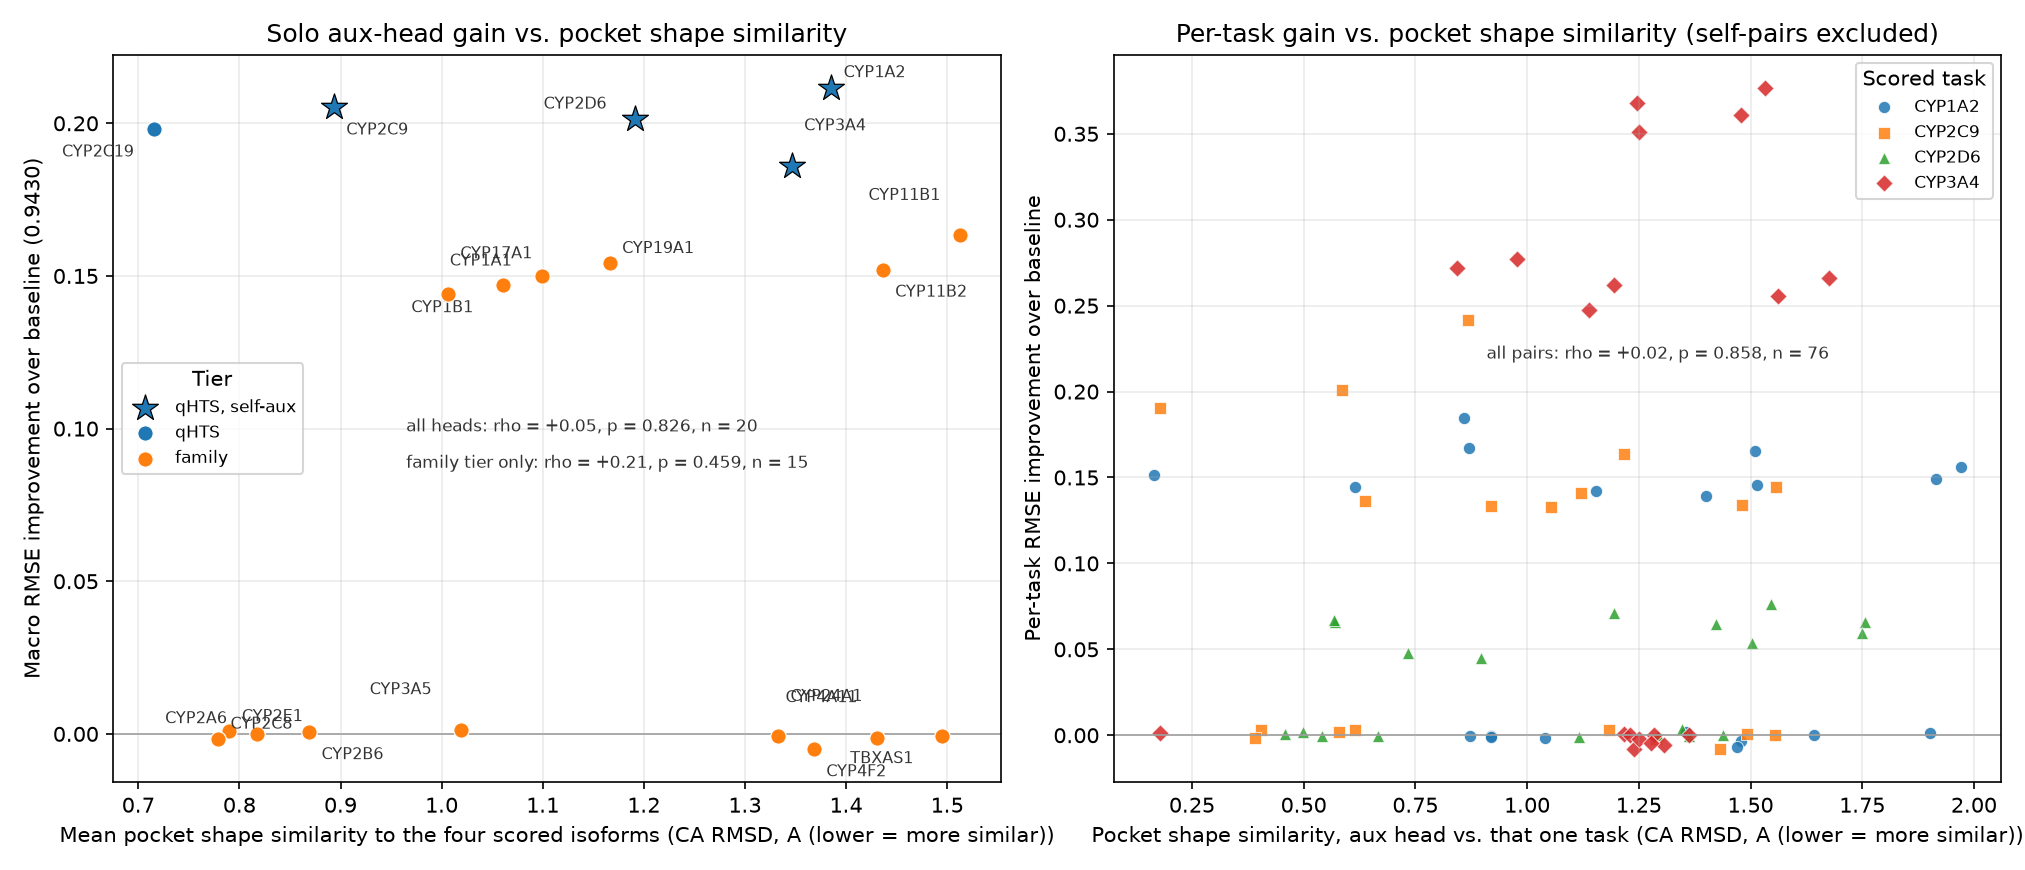
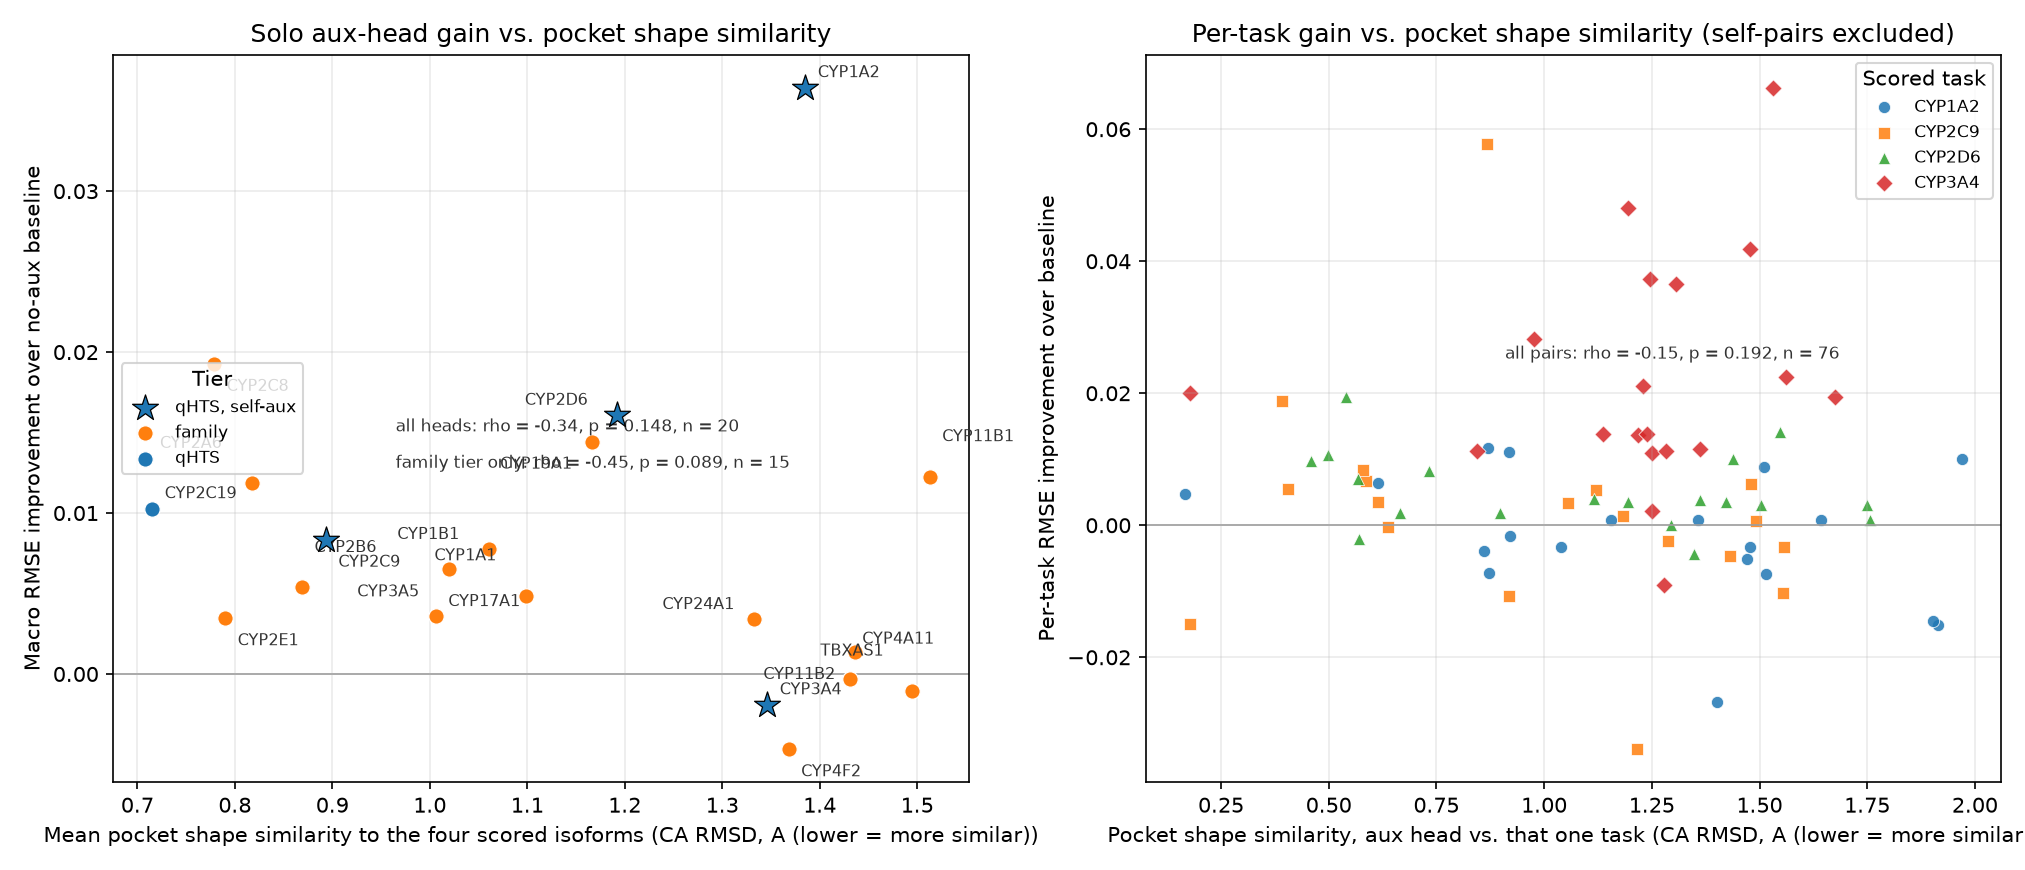
Move protein_similarity onto the head-search JSON and rerun against the fixed baseline
results/head_search_results.csv is gone; read solo-head gains from
results/head_search.json instead, with the baseline identified by an
empty 'candidates' list. Re-run the analysis against the fixed
2026-09-22 gains: all four similarity axes now lean weakly positive
(|rho| ~0.3, p 0.14-0.20) instead of flat or inverted, but none reaches
significance, so the answer is unchanged.

diff --git a/scripts/protein_similarity.py b/scripts/protein_similarity.py
@@ -1,7 +1,8 @@
 """Test whether protein similarity between isoforms explains auxiliary-head gain.
 
-`reports/head_search_analysis.md` left the split unexplained: some aux heads buy
-~0.2 macro RMSE and others buy nothing, and row count does not predict which.
+`reports/head_search_analysis.md` leaves the ranking unexplained: some aux heads
+buy a measurable macro RMSE gain and others buy nothing, and row count does not
+predict which.
 `chemspace.py` attacks the ligand side of that question. This one attacks the
 protein side: if an aux head helps because its enzyme is *like* the scored
 enzymes -- same fold, same substrate-binding residues, therefore transferable
@@ -49,13 +50,14 @@ experiment design, not about transfer. Those four heads are drawn as stars, as
 in `plot_volume_vs_gain.py`, and are confounded anyway -- they carry a
 supervision channel no external head has.
 
-Gains are read from `results/head_search_results.csv`: solo-head configs only
-(a multi-head config measures a set, not a head), `baseline - config`, so
-positive means the head helped. Per-task gains come from the same rows.
+Gains are read from the head-search JSON (`results/head_search.json`): solo-head
+configs only (a multi-head config measures a set, not a head),
+`baseline - config`, so positive means the head helped. Per-task gains come
+from the same entries.
 
 Usage:
     python scripts/protein_similarity.py
-    python scripts/protein_similarity.py --results-path results/head_search_results.csv
+    python scripts/protein_similarity.py --results-path results/head_search.json
 
 Network: UniProt REST (sequences), AlphaFold DB (models) and RCSB (the four
 holo structures), all cached under --cache-dir, so a second run is offline.
@@ -379,30 +381,29 @@ def load_gains(results_path: Path) -> tuple[dict[str, float], dict[str, dict[str
     Solo configs only. Gain is `baseline - config`, so positive means the head
     helped.
     """
-    rows = [line.split(",") for line in results_path.read_text().strip().splitlines()]
-    header, body = rows[0], rows[1:]
-    index = {name: i for i, name in enumerate(header)}
+    entries = json.loads(results_path.read_text())
 
-    baseline = next((r for r in body if r[0] == "baseline"), None)
+    baseline = next((e for e in entries if not e["candidates"]), None)
     if baseline is None:
-        raise SystemExit(f"{results_path} has no 'baseline' config row")
+        raise SystemExit(f"{results_path} has no baseline entry (one with an empty 'candidates')")
 
+    base_heads = baseline.get("per_head_rmse_mean", {})
     macro: dict[str, float] = {}
     per_task: dict[str, dict[str, float]] = {}
-    for row in body:
-        config = row[0]
-        if config == "baseline" or "+" in config:
+    for entry in entries:
+        if len(entry["candidates"]) != 1:
             continue
-        macro[config] = float(baseline[index["macroRMSE"]]) - float(row[index["macroRMSE"]])
-        per_task[config] = {
-            task: float(baseline[index[task]]) - float(row[index[task]])
+        gene = entry["candidates"][0]
+        solo_heads = entry.get("per_head_rmse_mean", {})
+        macro[gene] = baseline["macro_rmse_mean"] - entry["macro_rmse_mean"]
+        per_task[gene] = {
+            task: base_heads[f"{task}_pIC50_direct_inhibition"] - solo_heads[f"{task}_pIC50_direct_inhibition"]
             for task in _SCORED
-            if task in index
+            if f"{task}_pIC50_direct_inhibition" in base_heads and f"{task}_pIC50_direct_inhibition" in solo_heads
         }
 
     print(
-        f"{results_path}: baseline macro RMSE {float(baseline[index['macroRMSE']]):.4f}, "
-        f"{len(macro)} solo heads",
+        f"{results_path}: baseline macro RMSE {baseline['macro_rmse_mean']:.4f}, {len(macro)} solo heads",
         file=sys.stderr,
     )
     return macro, per_task
@@ -476,7 +477,7 @@ def plot_axis(
 
     ax_macro.axhline(0, color="#999999", linewidth=0.8, zorder=1)
     ax_macro.set_xlabel(f"Mean {axis_name} similarity to the four scored isoforms ({unit})")
-    ax_macro.set_ylabel("Macro RMSE improvement over baseline (0.9430)")
+    ax_macro.set_ylabel("Macro RMSE improvement over no-aux baseline")
     ax_macro.set_title(f"Solo aux-head gain vs. {axis_name} similarity")
     handles, labels = ax_macro.get_legend_handles_labels()
     unique = dict(zip(labels, handles))
@@ -543,7 +544,7 @@ def write_table(
 def main() -> None:
     """Entry point: fetch proteins, measure all four similarities, plot against gain."""
     parser = argparse.ArgumentParser(description=__doc__)
-    parser.add_argument("--results-path", type=Path, default=Path("results/head_search_results.csv"))
+    parser.add_argument("--results-path", type=Path, default=Path("results/head_search.json"))
     parser.add_argument("--cache-dir", type=Path, default=Path("data/proteins"))
     parser.add_argument("--out-dir", type=Path, default=Path("reports"))
     parser.add_argument("--table-path", type=Path, default=Path("results/protein_similarity.csv"))

diff --git a/reports/protein_similarity_analysis.md b/reports/protein_similarity_analysis.md
@@ -1,43 +1,51 @@
 # Does Enzyme Similarity Explain Auxiliary-Head Gain?
 
-`reports/head_search_analysis.md` Section 4 left the bimodal split unexplained:
-a solo aux head either buys ~0.15-0.21 macro RMSE or buys nothing, and row
-count does not predict which. One candidate explanation is protein
-relatedness — an aux isoform that is *like* the scored enzymes should transfer,
+Some solo aux heads measurably improve macro RMSE and others do nothing, and
+row count does not predict which (`reports/head_search_analysis.md`). One
+candidate explanation is protein relatedness — an aux isoform that is *like* the scored enzymes should transfer,
 one that is not should not. This report tests that directly.
 
-Source: `scripts/protein_similarity.py` (run 2026-09-21, local: ~50 s with the
-UniProt/AlphaFold/RCSB cache warm, ~2 min cold). Sequences from UniProt
-(reviewed human entries), models from AlphaFold DB v6, heme donors from RCSB.
-Gains are the solo-head rows of `results/head_search_results.csv` (baseline
-0.9430 ± 0.0018). Per-gene table: `results/protein_similarity.csv`.
+Source: `scripts/protein_similarity.py` (first run 2026-09-21, re-run
+2026-09-22; local, ~50 s with the UniProt/AlphaFold/RCSB cache warm, ~2 min
+cold). Sequences from UniProt (reviewed human entries), models from AlphaFold
+DB v6, heme donors from RCSB. Gains are the solo-head entries of
+`results/head_search.json` from the fixed head-search run (baseline
+0.7557 ± 0.0036). Per-gene table: `results/protein_similarity.csv`.
 
-> **Caveat added 2026-09-21.** The gains this report regresses against are
-> invalid — see `reports/head_search_baseline_bug.md`. The conclusion (protein
-> similarity does not explain the gains) is unchanged in direction, since the
-> gains turn out to encode training survival rather than transfer, but the
-> analysis should be re-run once real gains exist.
+> **Re-run 2026-09-22 against the fixed head-search.** The first version of
+> this report regressed against gains from the run whose baseline died at
+> epoch 1 (`reports/head_search_baseline_bug.md`). The similarity measurements
+> are unchanged; every gain and every correlation below is new. The answer is
+> still no, but the trends are no longer flat or inverted: all four axes now
+> lean weakly positive, and none reaches significance.
 
 ## TL;DR
 
-**No.** Nothing about the enzyme predicts gain — not whole-protein sequence
-identity, not fold similarity, and not the active site, which is the version of
-the question that actually had a mechanism behind it.
+**No, not detectably.** No similarity axis predicts gain at this sample
+size: not whole-protein sequence identity, not fold similarity, and not the
+active site, which is the version of the question that actually had a
+mechanism behind it. Every axis leans the expected way (more similar, slightly
+more gain), with |ρ| around 0.3 and p = 0.14-0.20.
 
 Spearman rho of solo-head macro gain against each similarity axis
 (mean over the four scored isoforms, self-pairs excluded):
 
 | Slice | Sequence identity | TM-score | **Pocket identity** | **Pocket CA RMSD** |
 |---|---|---|---|---|
-| All 20 aux heads | -0.00 (p = 0.995) | +0.03 (p = 0.885) | **+0.13 (p = 0.595)** | **+0.05 (p = 0.826)** |
-| Family tier only (n = 15) | -0.27 (p = 0.321) | -0.24 (p = 0.383) | **-0.07 (p = 0.809)** | **+0.21 (p = 0.459)** |
-| Every (aux head, scored task) pair (n = 76) | -0.09 (p = 0.423) | +0.01 (p = 0.941) | **+0.07 (p = 0.558)** | **+0.02 (p = 0.858)** |
+| All 20 aux heads | +0.30 (p = 0.195) | +0.34 (p = 0.139) | **+0.32 (p = 0.164)** | **-0.34 (p = 0.148)** |
+| Family tier only (n = 15) | +0.24 (p = 0.383) | +0.37 (p = 0.173) | **+0.29 (p = 0.294)** | **-0.45 (p = 0.089)** |
+| Every (aux head, scored task) pair (n = 76) | +0.05 (p = 0.668) | +0.16 (p = 0.160) | **+0.18 (p = 0.116)** | **-0.15 (p = 0.196)** |
 
-Flat on all four axes, at every slice. Where a trend shows at all it points the
-**wrong way**: inside the family tier the inert heads are the *more* similar
-ones on whole-protein identity (median max 48.6% vs. 30.4% for the gainers,
-Mann-Whitney p = 0.15) and on pocket identity (median max 63.2% vs. 48.5%,
-p = 0.37).
+Pocket RMSD is lower-is-more-similar, so its negative ρ points the same way as
+the others. Pair-level values are computed from the rounded
+`results/protein_similarity.csv` and can differ from the figure annotations in
+the second decimal.
+
+The per-head trend is consistent in sign across all four axes but weak, and it
+mostly disappears at the pair level (ρ ≤ 0.18). A head does not
+preferentially help the scored isoform it resembles most. The strongest single
+number, family-only pocket shape (ρ = -0.45, p = 0.089), is one of twelve tests
+in the table and does not survive any multiple-comparison correction.
 
 ![Pocket sequence](similarity_vs_gain_pocket_sequence.png)
 ![Pocket shape](similarity_vs_gain_pocket_shape.png)
@@ -75,9 +83,11 @@ T301/T302, L362, S365, L366. Pocket sizes are 19-24 residues.
 
 This axis has the dynamic range the global ones lack — pocket identity spans
 16-89% across non-self pairs, versus 19.5-91.4% for whole-protein identity but
-with the conserved bulk stripped out. It is still flat against gain, and the
-result holds at an 8 A cutoff (36-39 residue pockets: rho = -0.01 over all 20,
--0.27 family-only), so it is not an artefact of where the boundary was drawn.
+with the conserved bulk stripped out. It is still not significant against
+gain, and the result holds at an 8 A cutoff (36-39 residue pockets: pocket
+identity ρ = +0.25 over all 20, +0.20 family-only; pocket RMSD ρ = -0.39 and
+-0.44, p ≈ 0.09 both), so it is not an artefact of where the boundary was
+drawn.
 
 ## Method
 
@@ -109,24 +119,30 @@ carries less weight than the flat trends on the other three.
 
 | Gene | Max identity to a scored isoform | Max TM | Max pocket identity | Best pocket RMSD | Solo gain |
 |---|---|---|---|---|---|
-| CYP3A5 | 84.3% (CYP3A4) | 0.987 | 90.5% (CYP3A4) | 0.18 A | **+0.001** (inert) |
-| CYP2E1 | 57.1% | 0.969 | 84.2% | 0.41 A | +0.001 (inert) |
-| CYP2C8 | 78.0% (CYP2C9) | 0.978 | 73.7% (CYP2C9) | 0.39 A | **-0.002** (inert) |
-| CYP2B6 | 48.6% | 0.960 | 73.7% | 0.46 A | +0.001 (inert) |
-| CYP1A1 | 72.7% (CYP1A2) | 0.946 | 79.2% (CYP1A2) | 0.17 A | +0.150 |
-| CYP11B1 | 24.4% | 0.798 | 39.1% | 0.98 A | **+0.163** (best family head) |
-| CYP19A1 | 23.1% | 0.819 | 28.6% | 1.12 A | +0.154 |
+Solo gains are `baseline - solo` from the fixed run. "Above noise" means more
+than 2 combined seed SDs (baseline and solo) above zero.
 
-CYP3A5 shares 90% of CYP3A4's active-site residues and superposes on that
-cavity to 0.18 A, and does nothing. CYP11B1 is a
-mitochondrial steroid 11-beta-hydroxylase sharing under a quarter of its
-sequence with anything scored, and it is the strongest family head in the
-search. CYP1A1 shows the hypothesis is not merely inverted — a highly similar
-head *can* gain — the axis just does not separate the two groups.
+| Gene | Max identity to a scored isoform | Max TM | Max pocket identity | Best pocket RMSD | Solo gain |
+|---|---|---|---|---|---|
+| CYP2C8 | 78.0% (CYP2C9) | 0.978 | 73.7% (CYP2C9) | 0.39 A | **+0.019** (best family head, above noise) |
+| CYP3A5 | 84.3% (CYP3A4) | 0.987 | 90.5% (CYP3A4) | 0.18 A | +0.007 (not above noise) |
+| CYP1A1 | 72.7% (CYP1A2) | 0.946 | 79.2% (CYP1A2) | 0.17 A | +0.005 (not above noise) |
+| CYP2B6 | 48.6% | 0.960 | 73.7% | 0.46 A | +0.005 (not above noise) |
+| CYP2E1 | 57.1% | 0.969 | 84.2% | 0.41 A | +0.003 (not above noise) |
+| CYP19A1 | 23.1% | 0.819 | 28.6% | 1.12 A | **+0.014** (above noise) |
+| CYP11B1 | 24.4% | 0.798 | 39.1% | 0.98 A | **+0.012** (above noise) |
 
-Volume does not rescue the split either: the six family gainers all have
-≥ 856 rows, but so do inert TBXAS1 (1628), CYP2C8 (888), CYP4A11 (872) and
-CYP4F2 (872).
+The top of the table fits the hypothesis: CYP2C8, the closest non-scored
+relative of CYP2C9, is the best family head. The rest of it does not. CYP3A5
+shares 90% of CYP3A4's active-site residues, superposes on that cavity to
+0.18 A, and is not distinguishable from noise. CYP1A1 is almost as close to
+CYP1A2 and does no better. Meanwhile CYP19A1 (aromatase) and CYP11B1 (a
+mitochondrial steroid 11-beta-hydroxylase) share under a quarter of their
+sequence with anything scored, and both clear the noise bar. High similarity is
+neither necessary nor sufficient.
+
+Volume does not separate them either: CYP2C8 (888 molecules) beats CYP11B2
+(1,659, +0.001) and TBXAS1 (907, -0.001).
 
 ## Why this is the expected answer, in hindsight
 
@@ -135,27 +151,28 @@ nothing else; each head is a readout on top of it, and the protein identity of
 a head is just a column name. Enzyme similarity could therefore only act
 *indirectly* — similar enzymes get assayed against similar compound libraries,
 so a related isoform's molecules would regularise the encoder in a useful
-direction. What the data says is that this indirect path is swamped by which
-library a head's rows actually came from: CYP2C8 and CYP3A5 are family heads
-built from small BindingDB/ChEMBL med-chem series, while CYP11B1 and CYP19A1
-are family heads built from different, larger series. Provenance of the ligand
-set dominates homology of the protein.
+direction. The weak positive lean is consistent with that indirect path
+existing, but it is small next to the differences between the ligand sets
+themselves: CYP3A5 and CYP2C8 are both close relatives of a scored enzyme,
+and only one of them helps.
 
-This strengthens rather than weakens the chemical-space hypothesis in
-`head_search_analysis.md` Section 4 and the maps in `scripts/chemspace.py`:
-having ruled out row count, nearest-neighbour Tanimoto to the eval set, and now
-protein relatedness on four axes including the active site itself, the
-remaining explanations are
-properties of each head's molecule *distribution* (coverage, diversity,
-label consistency), not of its enzyme.
+This points back to the ligand side. In the fixed run, nearest-neighbour
+ECFP4 Tanimoto from the eval set to a head's training molecules does
+correlate with gain (`results/aux_similarity.csv`: ρ = +0.49, p = 0.027 over
+all 20 heads; +0.60, p = 0.018 over the 15 family heads), which is stronger
+than any protein axis here. The explanation is more likely a property of each
+head's molecule *distribution* (coverage, proximity, label consistency) than
+of its enzyme. `scripts/chemspace.py` draws those distributions.
 
 ## Caveats
 
 - n = 20 heads (15 external), one split, solo configs only. Underpowered for
   anything but a strong effect; a strong effect is what the hypothesis
   predicted and it is absent.
-- Gains below ~0.004 are seed noise, which is the entire inert group — they are
-  "no effect", not small effects to be ranked among themselves.
+- Every gain here is under 0.04, and 13 of 20 are within 2 combined seed SDs
+  of zero. Those are "no effect", not small effects to be ranked among
+  themselves. The SDs are also optimistic: head-search varies only
+  `--pytorch-seed`, so all three replicates see the same batch order.
 - Pockets are defined on AlphaFold apo models with a heme borrowed from a
   crystal structure, and P450 cavities are famously plastic — CYP3A4's expands
   by hundreds of cubic angstroms on binding. A static first-shell definition
